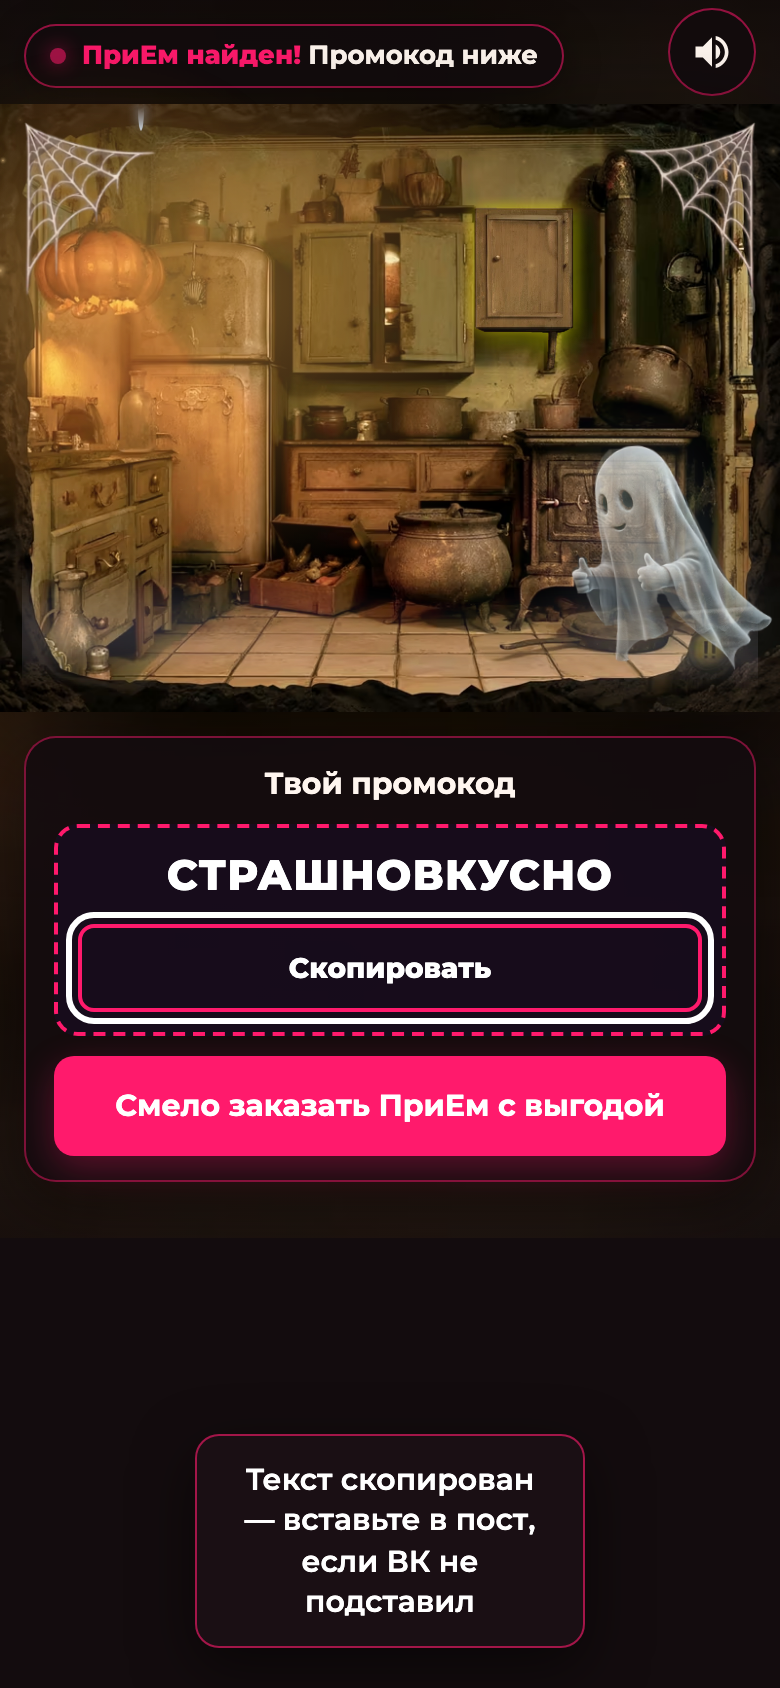
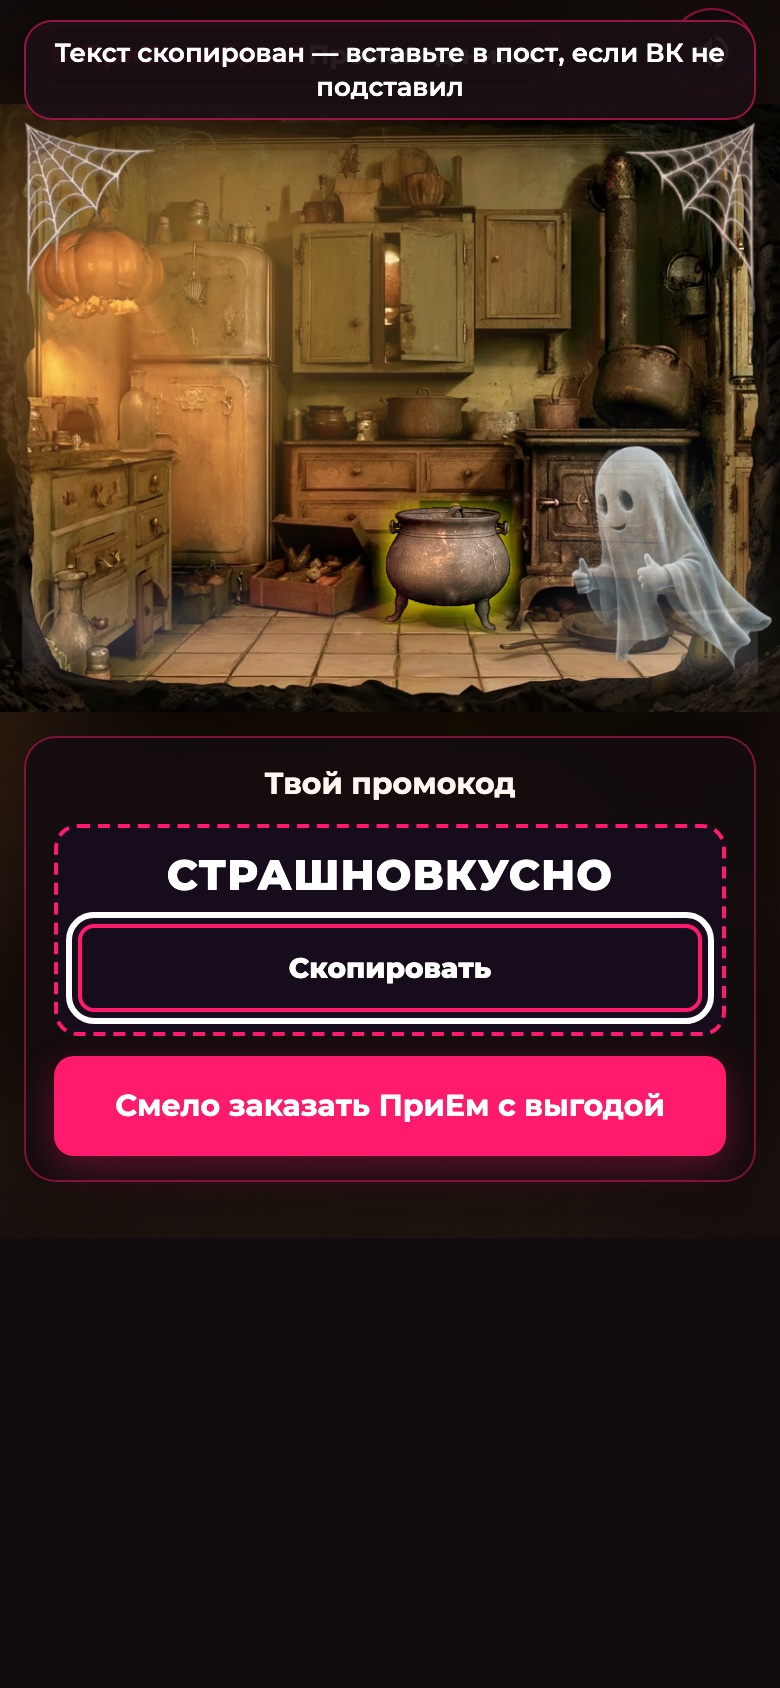
Тост «Промокод скопирован» — сверху мелким шрифтом

diff --git a/src/game.css b/src/game.css
@@ -348,8 +348,8 @@ html body .t-rec:has(#hlw-wrap) .t-col__overlay{pointer-events:none !important}
 #hlw-wrap .hlw-tip.is-on{opacity:1;transform:none}
 #hlw-wrap .hlw-sharelink{flex:1 1 auto;display:flex;align-items:center;justify-content:center;min-height:44px;padding:8px 12px;border:1.5px solid rgba(255,255,255,.7);border-radius:10px;background:transparent;color:#fff;font-size:14px;font-weight:700;cursor:pointer;transition:background .2s}
 #hlw-wrap .hlw-sharelink:hover{background:rgba(255,255,255,.1)}
-#hlw-wrap .hlw-toast{position:fixed;z-index:2147483001;left:50%;bottom:max(20px,env(safe-area-inset-bottom));transform:translate(-50%,20px);max-width:calc(100vw - 32px);padding:12px 18px;border-radius:12px;
-  background:#1a0f14;border:1px solid rgba(255,26,108,.6);color:#fff;font-size:15px;font-weight:600;line-height:1.35;text-align:center;box-shadow:0 10px 30px rgba(0,0,0,.5);opacity:0;pointer-events:none;transition:opacity .35s ease,transform .35s cubic-bezier(.22,.61,.36,1)}
+#hlw-wrap .hlw-toast{position:fixed;z-index:2147483001;left:50%;top:calc(var(--hlw-off,0px) + max(10px,env(safe-area-inset-top)));transform:translate(-50%,-12px);width:max-content;max-width:calc(100vw - 24px);padding:7px 14px;border-radius:14px;
+  background:rgba(26,15,20,.94);border:1px solid rgba(255,26,108,.55);color:#fff;font-size:13px;font-weight:600;line-height:1.3;text-align:center;box-shadow:0 6px 20px rgba(0,0,0,.45);opacity:0;pointer-events:none;transition:opacity .3s ease,transform .3s cubic-bezier(.22,.61,.36,1)}
 #hlw-wrap .hlw-toast.is-on{opacity:1;transform:translate(-50%,0)}
 #hlw-wrap .hlw-toast b{color:var(--hlw-pink)}
 @keyframes hlw-fade{from{opacity:0;transform:translateY(-6px)}to{opacity:1;transform:none}}

diff --git a/dist/debug.html b/dist/debug.html
@@ -291,8 +291,8 @@ background:var(--hlw-pink);color:#fff;font-size:16px;font-weight:700;line-height
 #hlw-wrap .hlw-tip.is-on{opacity:1;transform:none}
 #hlw-wrap .hlw-sharelink{flex:1 1 auto;display:flex;align-items:center;justify-content:center;min-height:44px;padding:8px 12px;border:1.5px solid rgba(255,255,255,.7);border-radius:10px;background:transparent;color:#fff;font-size:14px;font-weight:700;cursor:pointer;transition:background .2s}
 #hlw-wrap .hlw-sharelink:hover{background:rgba(255,255,255,.1)}
-#hlw-wrap .hlw-toast{position:fixed;z-index:2147483001;left:50%;bottom:max(20px,env(safe-area-inset-bottom));transform:translate(-50%,20px);max-width:calc(100vw - 32px);padding:12px 18px;border-radius:12px;
-background:#1a0f14;border:1px solid rgba(255,26,108,.6);color:#fff;font-size:15px;font-weight:600;line-height:1.35;text-align:center;box-shadow:0 10px 30px rgba(0,0,0,.5);opacity:0;pointer-events:none;transition:opacity .35s ease,transform .35s cubic-bezier(.22,.61,.36,1)}
+#hlw-wrap .hlw-toast{position:fixed;z-index:2147483001;left:50%;top:calc(var(--hlw-off,0px) + max(10px,env(safe-area-inset-top)));transform:translate(-50%,-12px);width:max-content;max-width:calc(100vw - 24px);padding:7px 14px;border-radius:14px;
+background:rgba(26,15,20,.94);border:1px solid rgba(255,26,108,.55);color:#fff;font-size:13px;font-weight:600;line-height:1.3;text-align:center;box-shadow:0 6px 20px rgba(0,0,0,.45);opacity:0;pointer-events:none;transition:opacity .3s ease,transform .3s cubic-bezier(.22,.61,.36,1)}
 #hlw-wrap .hlw-toast.is-on{opacity:1;transform:translate(-50%,0)}
 #hlw-wrap .hlw-toast b{color:var(--hlw-pink)}
 @keyframes hlw-fade{from{opacity:0;transform:translateY(-6px)}to{opacity:1;transform:none}}

diff --git a/dist/halloween-game-local.html b/dist/halloween-game-local.html
@@ -288,8 +288,8 @@ background:var(--hlw-pink);color:#fff;font-size:16px;font-weight:700;line-height
 #hlw-wrap .hlw-tip.is-on{opacity:1;transform:none}
 #hlw-wrap .hlw-sharelink{flex:1 1 auto;display:flex;align-items:center;justify-content:center;min-height:44px;padding:8px 12px;border:1.5px solid rgba(255,255,255,.7);border-radius:10px;background:transparent;color:#fff;font-size:14px;font-weight:700;cursor:pointer;transition:background .2s}
 #hlw-wrap .hlw-sharelink:hover{background:rgba(255,255,255,.1)}
-#hlw-wrap .hlw-toast{position:fixed;z-index:2147483001;left:50%;bottom:max(20px,env(safe-area-inset-bottom));transform:translate(-50%,20px);max-width:calc(100vw - 32px);padding:12px 18px;border-radius:12px;
-background:#1a0f14;border:1px solid rgba(255,26,108,.6);color:#fff;font-size:15px;font-weight:600;line-height:1.35;text-align:center;box-shadow:0 10px 30px rgba(0,0,0,.5);opacity:0;pointer-events:none;transition:opacity .35s ease,transform .35s cubic-bezier(.22,.61,.36,1)}
+#hlw-wrap .hlw-toast{position:fixed;z-index:2147483001;left:50%;top:calc(var(--hlw-off,0px) + max(10px,env(safe-area-inset-top)));transform:translate(-50%,-12px);width:max-content;max-width:calc(100vw - 24px);padding:7px 14px;border-radius:14px;
+background:rgba(26,15,20,.94);border:1px solid rgba(255,26,108,.55);color:#fff;font-size:13px;font-weight:600;line-height:1.3;text-align:center;box-shadow:0 6px 20px rgba(0,0,0,.45);opacity:0;pointer-events:none;transition:opacity .3s ease,transform .3s cubic-bezier(.22,.61,.36,1)}
 #hlw-wrap .hlw-toast.is-on{opacity:1;transform:translate(-50%,0)}
 #hlw-wrap .hlw-toast b{color:var(--hlw-pink)}
 @keyframes hlw-fade{from{opacity:0;transform:translateY(-6px)}to{opacity:1;transform:none}}

diff --git a/dist/halloween-game-tilda.html b/dist/halloween-game-tilda.html
@@ -288,8 +288,8 @@ background:var(--hlw-pink);color:#fff;font-size:16px;font-weight:700;line-height
 #hlw-wrap .hlw-tip.is-on{opacity:1;transform:none}
 #hlw-wrap .hlw-sharelink{flex:1 1 auto;display:flex;align-items:center;justify-content:center;min-height:44px;padding:8px 12px;border:1.5px solid rgba(255,255,255,.7);border-radius:10px;background:transparent;color:#fff;font-size:14px;font-weight:700;cursor:pointer;transition:background .2s}
 #hlw-wrap .hlw-sharelink:hover{background:rgba(255,255,255,.1)}
-#hlw-wrap .hlw-toast{position:fixed;z-index:2147483001;left:50%;bottom:max(20px,env(safe-area-inset-bottom));transform:translate(-50%,20px);max-width:calc(100vw - 32px);padding:12px 18px;border-radius:12px;
-background:#1a0f14;border:1px solid rgba(255,26,108,.6);color:#fff;font-size:15px;font-weight:600;line-height:1.35;text-align:center;box-shadow:0 10px 30px rgba(0,0,0,.5);opacity:0;pointer-events:none;transition:opacity .35s ease,transform .35s cubic-bezier(.22,.61,.36,1)}
+#hlw-wrap .hlw-toast{position:fixed;z-index:2147483001;left:50%;top:calc(var(--hlw-off,0px) + max(10px,env(safe-area-inset-top)));transform:translate(-50%,-12px);width:max-content;max-width:calc(100vw - 24px);padding:7px 14px;border-radius:14px;
+background:rgba(26,15,20,.94);border:1px solid rgba(255,26,108,.55);color:#fff;font-size:13px;font-weight:600;line-height:1.3;text-align:center;box-shadow:0 6px 20px rgba(0,0,0,.45);opacity:0;pointer-events:none;transition:opacity .3s ease,transform .3s cubic-bezier(.22,.61,.36,1)}
 #hlw-wrap .hlw-toast.is-on{opacity:1;transform:translate(-50%,0)}
 #hlw-wrap .hlw-toast b{color:var(--hlw-pink)}
 @keyframes hlw-fade{from{opacity:0;transform:translateY(-6px)}to{opacity:1;transform:none}}

diff --git a/dist/preview.html b/dist/preview.html
@@ -291,8 +291,8 @@ background:var(--hlw-pink);color:#fff;font-size:16px;font-weight:700;line-height
 #hlw-wrap .hlw-tip.is-on{opacity:1;transform:none}
 #hlw-wrap .hlw-sharelink{flex:1 1 auto;display:flex;align-items:center;justify-content:center;min-height:44px;padding:8px 12px;border:1.5px solid rgba(255,255,255,.7);border-radius:10px;background:transparent;color:#fff;font-size:14px;font-weight:700;cursor:pointer;transition:background .2s}
 #hlw-wrap .hlw-sharelink:hover{background:rgba(255,255,255,.1)}
-#hlw-wrap .hlw-toast{position:fixed;z-index:2147483001;left:50%;bottom:max(20px,env(safe-area-inset-bottom));transform:translate(-50%,20px);max-width:calc(100vw - 32px);padding:12px 18px;border-radius:12px;
-background:#1a0f14;border:1px solid rgba(255,26,108,.6);color:#fff;font-size:15px;font-weight:600;line-height:1.35;text-align:center;box-shadow:0 10px 30px rgba(0,0,0,.5);opacity:0;pointer-events:none;transition:opacity .35s ease,transform .35s cubic-bezier(.22,.61,.36,1)}
+#hlw-wrap .hlw-toast{position:fixed;z-index:2147483001;left:50%;top:calc(var(--hlw-off,0px) + max(10px,env(safe-area-inset-top)));transform:translate(-50%,-12px);width:max-content;max-width:calc(100vw - 24px);padding:7px 14px;border-radius:14px;
+background:rgba(26,15,20,.94);border:1px solid rgba(255,26,108,.55);color:#fff;font-size:13px;font-weight:600;line-height:1.3;text-align:center;box-shadow:0 6px 20px rgba(0,0,0,.45);opacity:0;pointer-events:none;transition:opacity .3s ease,transform .3s cubic-bezier(.22,.61,.36,1)}
 #hlw-wrap .hlw-toast.is-on{opacity:1;transform:translate(-50%,0)}
 #hlw-wrap .hlw-toast b{color:var(--hlw-pink)}
 @keyframes hlw-fade{from{opacity:0;transform:translateY(-6px)}to{opacity:1;transform:none}}

diff --git a/docs/PROGRESS.md b/docs/PROGRESS.md
@@ -72,3 +72,4 @@
 - Samsung S25 (реальный Chrome 155, реальные тапы adb): сцена, промах, победа, копирование, системное «Поделиться», плашка — OK, ошибок консоли нет, AVIF. Найдено и исправлено: подсказка «Скопировано» перекрывала текст — теперь «Скопировано ✓» на самой кнопке.
 - iPhone 12 mini (iOS 26.6.2, Safari, WDA): сцена, промахи, победа, плашка, «Смело заказать» — OK. «Сброс игры после Скопировать» от субагента — артефакт WDA: каждый новый сеанс c.session('com.apple.mobilesafari') перезапускает Safari, а c.session() без приложения выкидывает на главный экран (так же мой тап по нижней панели Safari переключил вкладку на discord.com). Повтор одним сеансом на dist/debug.html (журнал: load#1, без pagehide): промахи → победа → «Скопировано ✓» → тап по коду → шторка «Поделиться» с текстом — всё OK, перезагрузок нет. Урок для QA: на iPhone весь сценарий — один сеанс WDA, не тапать по нижней панели Safari.
 - Шеринг: только text (текст, затем ссылка) — Telegram на Android ставил ссылку первой. Кнопка «Поделиться в соцсетях» (решение Елены). Капля — прежняя (Елене новые с эхом не понравились), фон — шкатулка, лишние варианты удалены. Добавлена dist/debug.html для проверок на телефонах.
+- 20.10 решения Елены: срок акции и аналитику (цели/счётчик) контролирует админка сайта — в блоке не трогаем (события и так уходят в dataLayer); плавное появление блока при скролле не нужно; тост «Промокод скопирован» — сверху мелким шрифтом (под шапкой сайта). Размер 95 КБ — Елена пробует вставить в T123, при отказе Тильды вынести CSS/JS на CDN.
